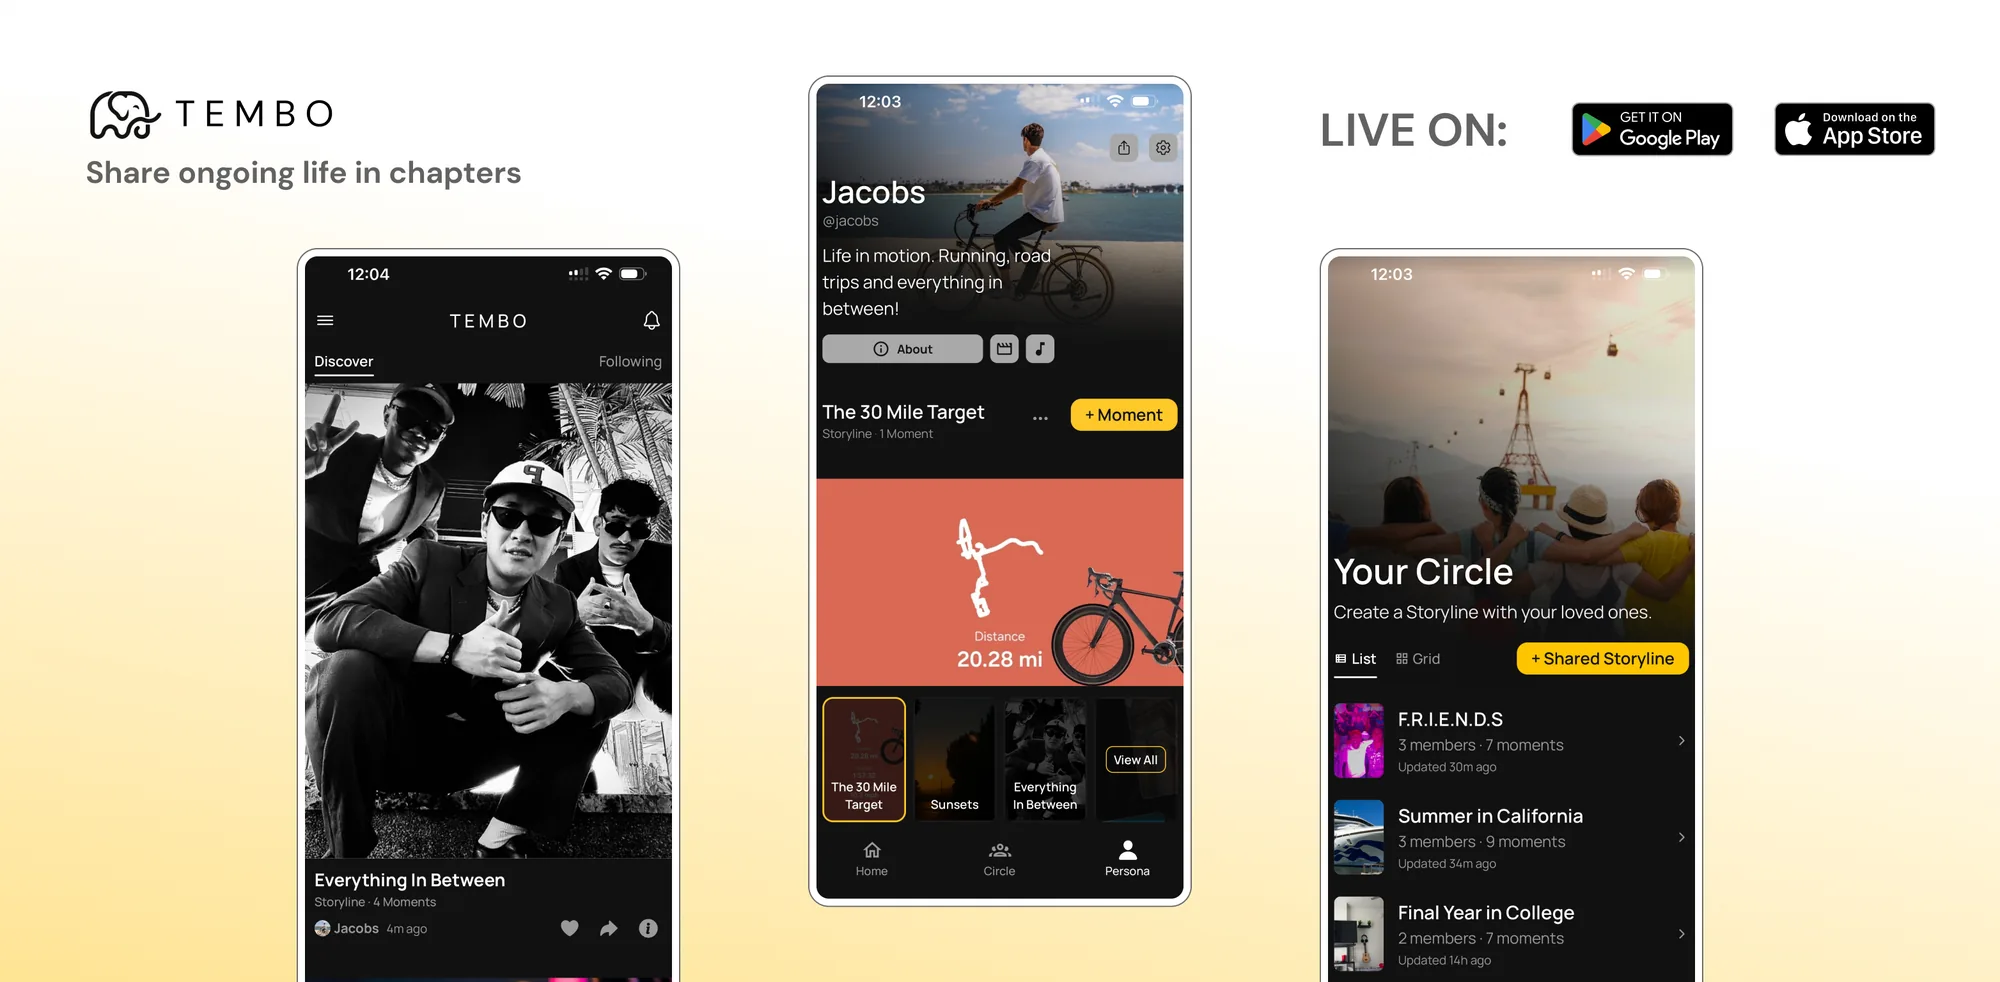
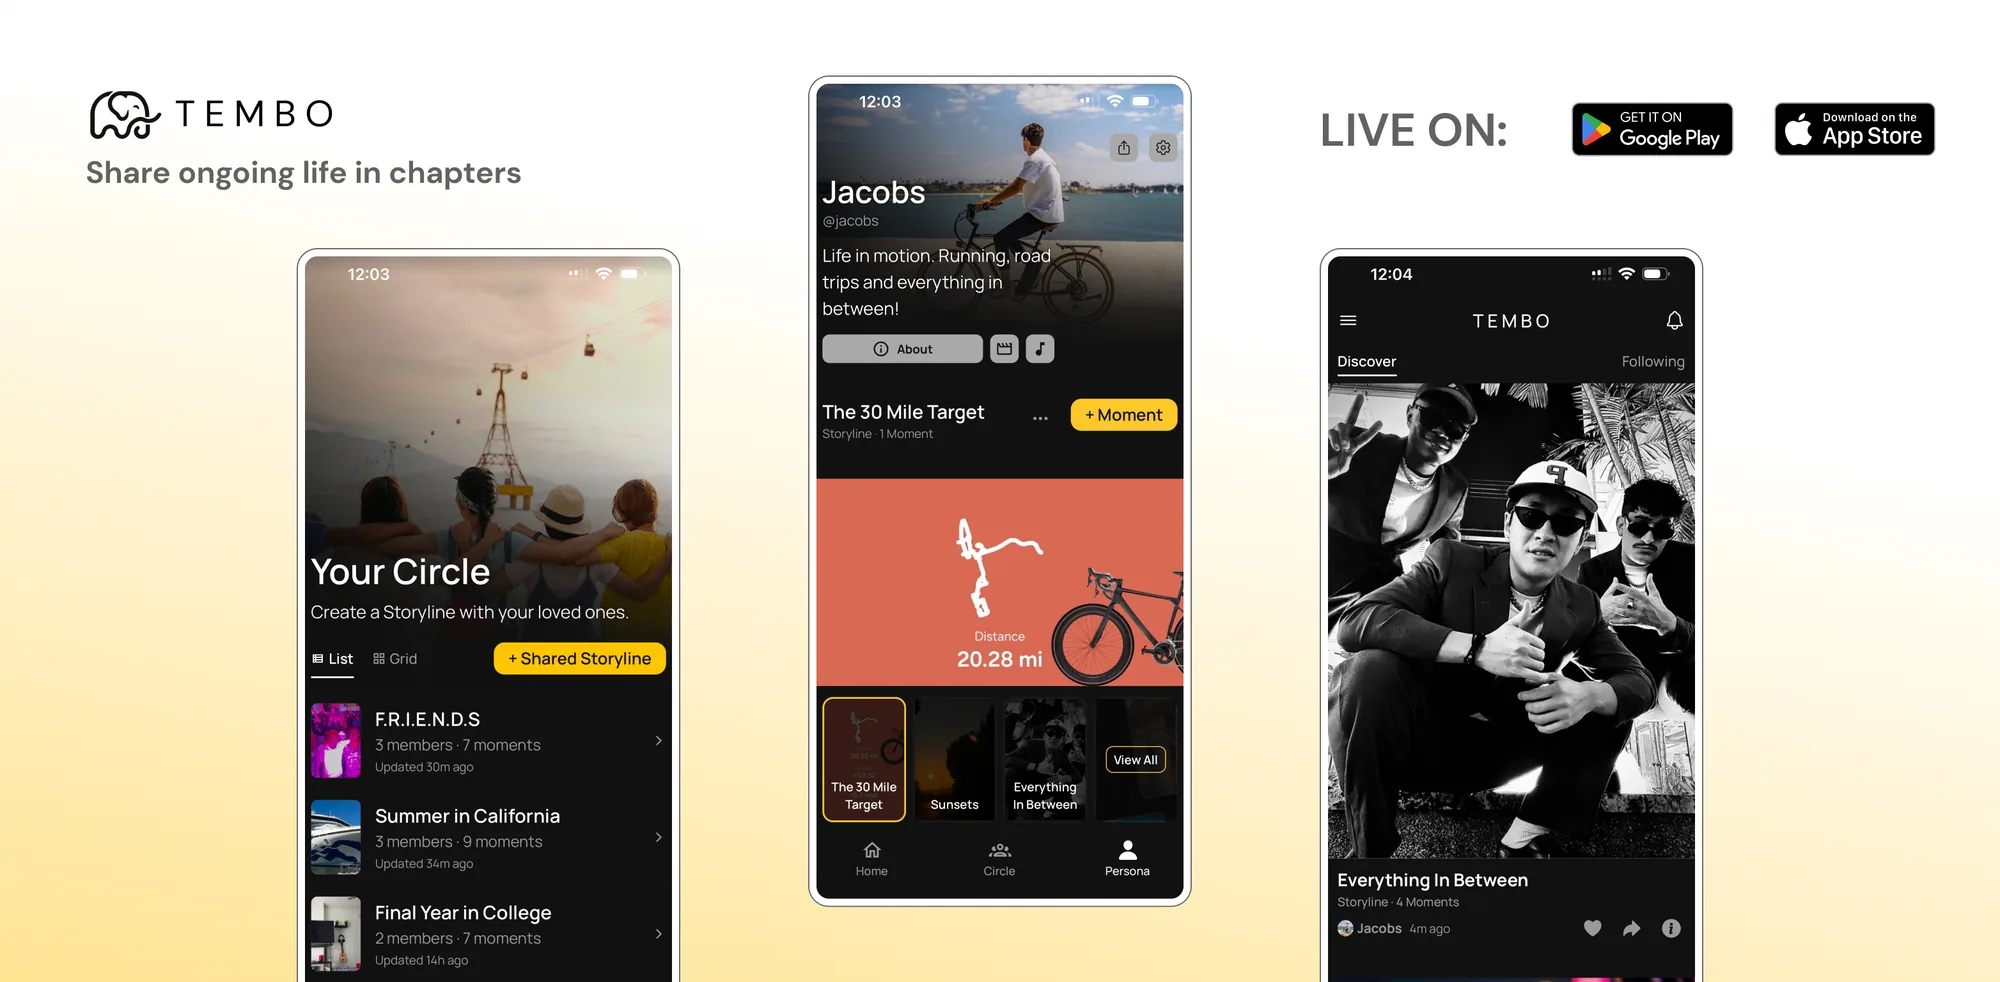
feat: latest TEMBO cover (Circle and Discover phones swapped)

Changed region(s): [[0.651, 0.2444, 0.868, 1.0], [0.155, 0.2444, 0.341, 1.0]]

diff --git a/src/app/data/caseStudies/tembo.tsx b/src/app/data/caseStudies/tembo.tsx
@@ -38,7 +38,7 @@ export const tembo: CaseStudy = {
     slot: 'Home, a Storyline, and Persona on three phones',
     ratio: '2000/982',
     src: '/img/works/tembo-app.webp',
-    alt: 'TEMBO, "Share ongoing life in chapters", live on Google Play and the App Store: three phones showing the Discover feed, a Persona with The 30 Mile Target Storyline, and Your Circle of shared Storylines.',
+    alt: 'TEMBO, "Share ongoing life in chapters", live on Google Play and the App Store: three phones showing Your Circle of shared Storylines, a Persona with The 30 Mile Target Storyline, and the Discover feed.',
   },
   overview: (
     <>
